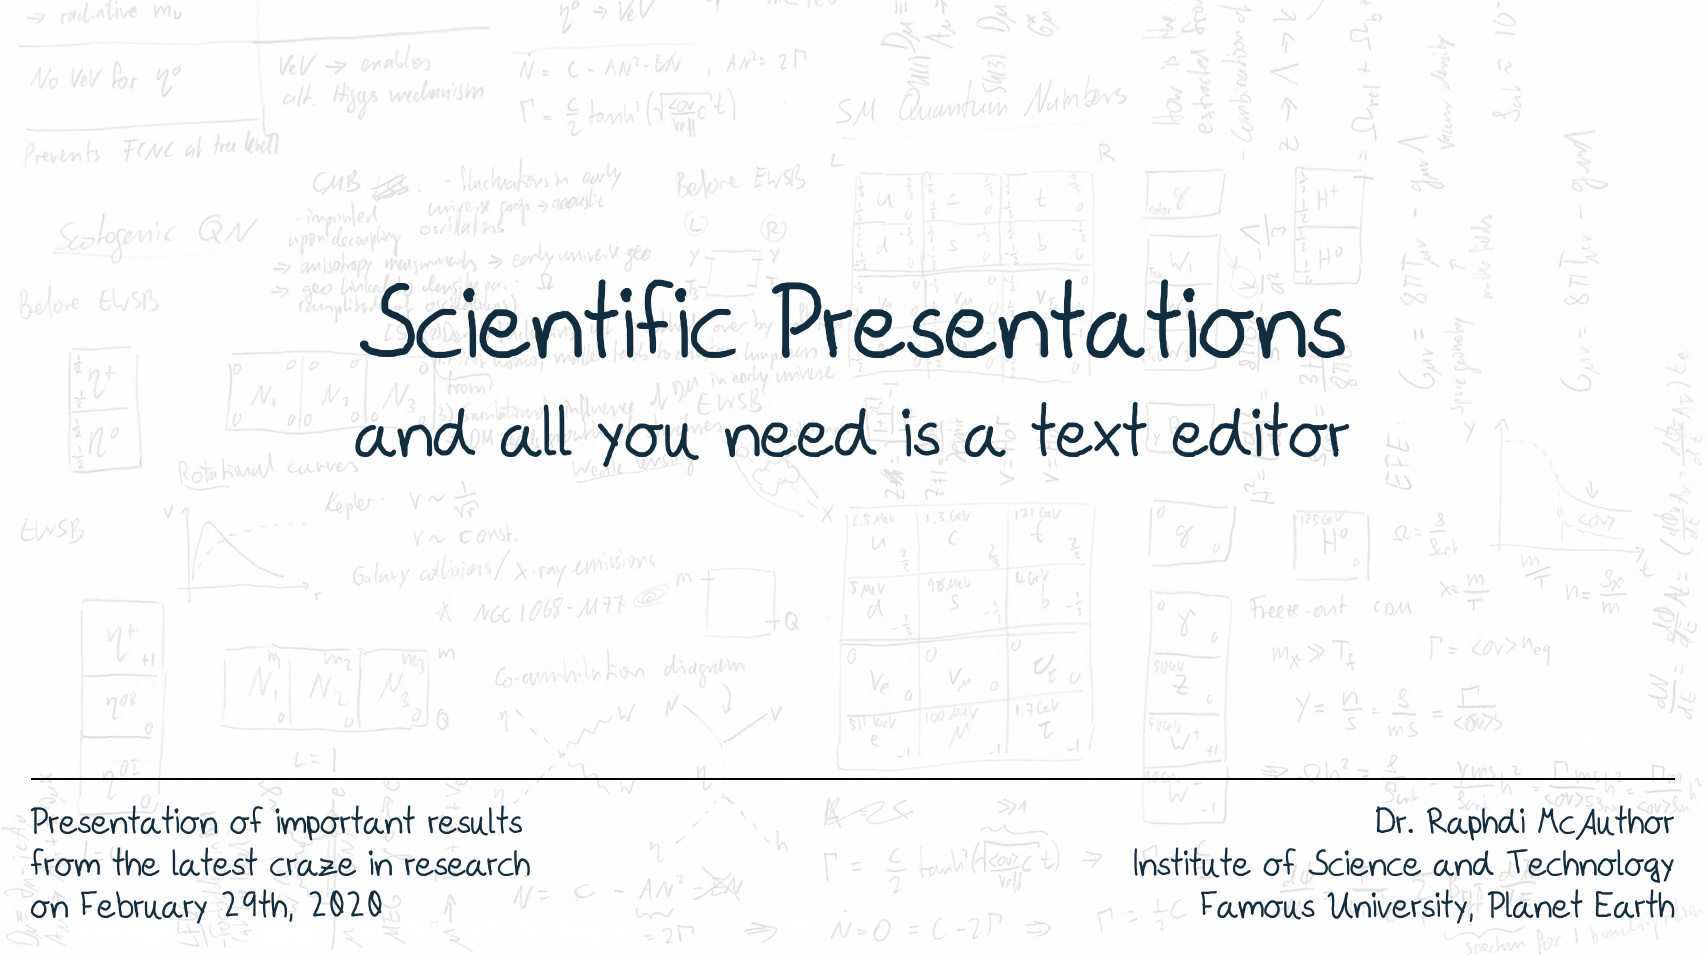
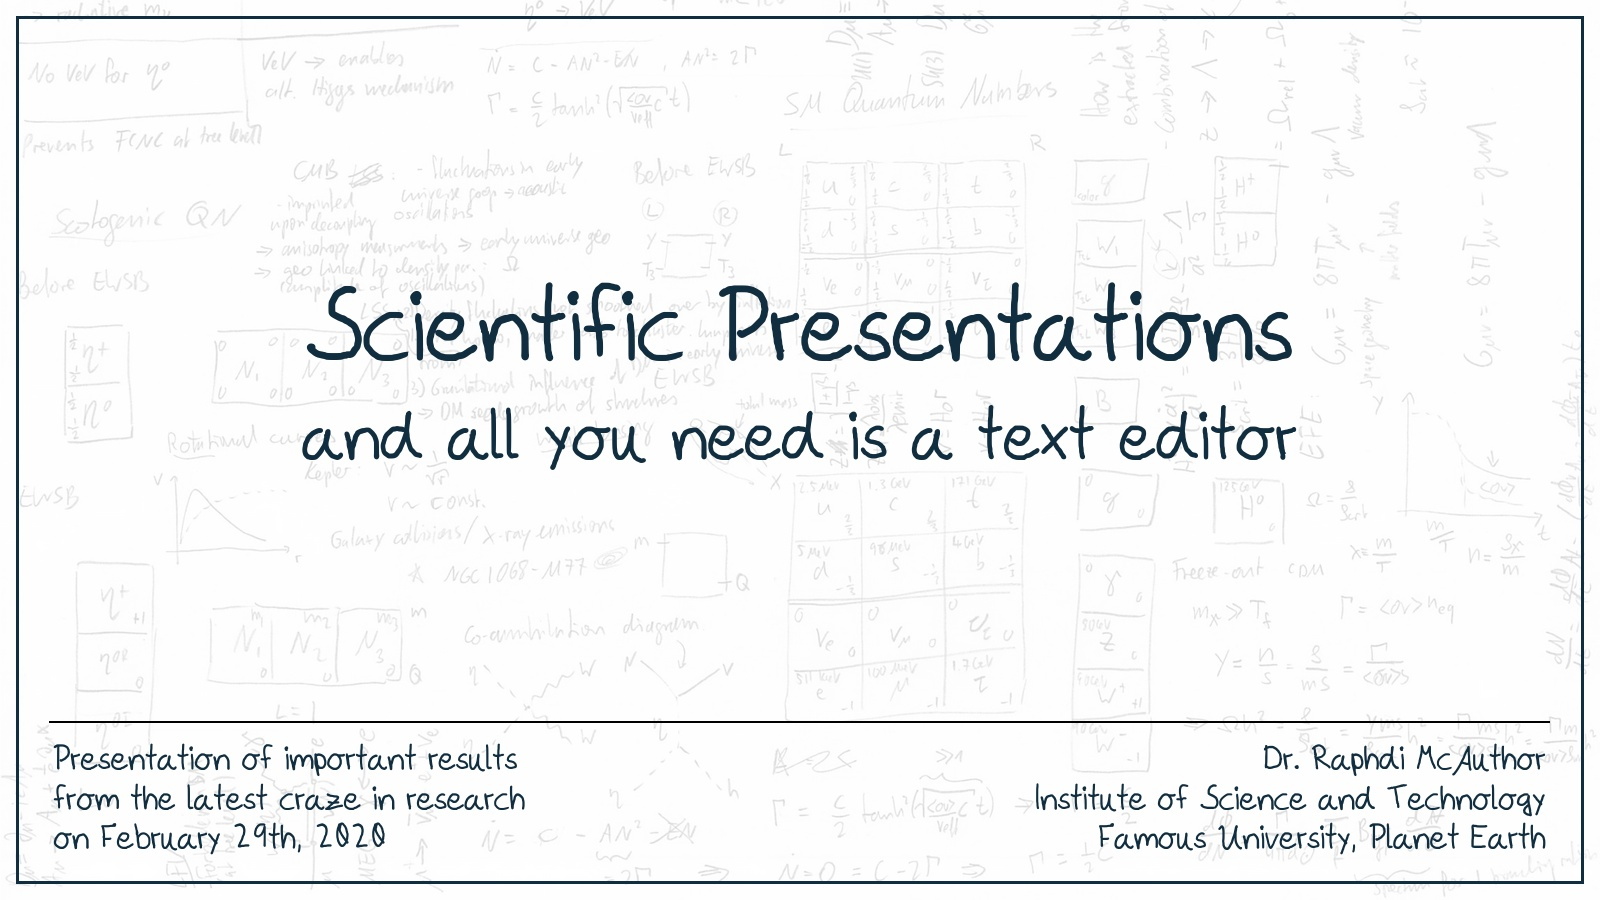
Implemented automatic setting of browser scroll offset, and changed resolution to 1600x900.

diff --git a/tutorial/parse/output.html b/tutorial/parse/output.html
@@ -15,22 +15,22 @@
 
     <div class="frame">
 
-        <div class="cell T02 BOX1" style=" visibility: visible;">
-            <div class="cell BOXTITLE" style=" width: 72.9375px;"></div>
-            <p class="headline" style="margin-top: 230px;">
+        <div class="cell T02 BOX1" style=" border:  3px solid rgba(var(--text), 1); visibility: visible;">
+            <div class="cell BOXTITLE" style=" width: 70.78125px;"></div>
+                <p class="headline" style="margin-top: 230px;">
         Scientific Presentations
     </p>
     <p class="subheadline">
         and all you need is a text editor
     </p>
 
-    <hr style="width: 100%; height: 1.5px; margin-top: 300px;">
-    <p style="width: 50%; float: left; color: rgba(var(--text),1); font-weight: bold;">
+    <hr style="width: 98%; height: 1.5px; margin-top: 240px;">
+    <p style="width: 50%; float: left; padding: 0 0 20px 20px; color: rgba(var(--text),1); font-weight: bold;">
         Presentation of important results<br>
         from the latest craze in research<br>
         on February 29th, 2020<br>
     </p>
-    <p style="width: 50%; float: right; text-align: right; color: rgba(var(--text),1); font-weight: bold;">
+    <p style="width: 50%; float: right; padding: 0 20px 20px 0; text-align: right; color: rgba(var(--text),1); font-weight: bold;">
         Dr. Raphdi McAuthor<br>
         Institute of Science and Technology<br>
         Famous University, Planet Earth
@@ -66,7 +66,7 @@
             <span class="page">2</span>
         </div>
 
-        <div class="cell T00 BOX1" style=" background-color:  rgba(var(--color), 1); visibility: visible; width: calc(var(--totalwidth) - 805.6875px - var(--footerwidth) - 8 * var(--boxmargin));">
+        <div class="cell T00 BOX1" style=" background-color:  rgba(var(--color), 1); visibility: visible; width: calc(var(--totalwidth) - 766.34375px - var(--footerwidth) - 8 * var(--boxmargin));">
                             
     <img src="../pictures/testimage_01.jpg" style="width: 100%; border: 1px solid black;">
     <br>
@@ -76,10 +76,10 @@
     </p>
         </div>
 
-        <div class="cell BOXTITLE" style=" visibility: visible; width: 805.6875px;">
+        <div class="cell BOXTITLE" style=" visibility: visible; width: 766.34375px;">
             The title of the first slide
         </div>
-        <div class="cell T00 BOX2" style="  background-size:  cover; background-image:  url(../pictures/torngrid_01.png);   background-position:  bottom; visibility: visible; width: 805.6875px;">
+        <div class="cell T00 BOX2" style="  background-size:  cover; background-image:  url(../pictures/torngrid_01.png);   background-position:  bottom; visibility: visible; width: 766.34375px;">
                             <ul class="ultrawide large" style="margin: 30px 25px;">
         <li>The contents go into boxes like this one.</li>
         <li>The size of the boxes are adjusted to the length of the title.</li>
@@ -119,9 +119,9 @@
         </div>
 
         <div class="cell T01 BOX1" style=" color:  white; visibility: visible;">
-            <div class="cell BOXTITLE" style=" visibility: visible; width: 710.140625px;">Different style options</div>
+            <div class="cell BOXTITLE" style=" visibility: visible; width: 675.625px;">Different style options</div>
                 <ul class="large">
-        <li>In general, boxes can contain anything from the HTML and CSS world.</li>
+        <li>In general, boxes can contain anything<br>from the HTML and CSS world.</li>
         <li>Like images, lists, plain text, even moving headlines if that's your thing.</li>
         <li>If you need more freedom, choose the template with the single, giant box and knock yourself out!</li>
         <li>The different templates are shown at the end of the presentation.</li>
@@ -163,7 +163,7 @@
         </div>
 
         <div class="cell T01 BOX1" style=" visibility: visible;">
-            <div class="cell BOXTITLE" style=" visibility: visible; width: 700.78125px;">Equations with LaTeX</div>
+            <div class="cell BOXTITLE" style=" visibility: visible; width: 666.71875px;">Equations with LaTeX</div>
             <ul class="wide large" style="margin: 30px 25px;">
         <li>
             If you're familiar with LaTeX typesetting, you can use the
@@ -176,7 +176,7 @@
             
             ... so they might behave
             
-                <img src="/home/nechnif/projects/neftox/tutorial/parse/04-BOX1-00.png" style="width:255.0px; margin-bottom: -8.94px;"/>
+                <img src="/home/nechnif/projects/neftox/tutorial/parse/04-BOX1-00.png" style="width:221.25px; margin-bottom: -7.8px;"/>
 
             
             when embedded into normal text.
@@ -226,7 +226,7 @@
             <span class="page">5</span>
         </div>
 
-        <div class="cell T00 BOX1" style="  background-size:  cover; background-image:  url(../pictures/torngrid_01.png);   background-position:  bottom; visibility: visible; width: calc(var(--totalwidth) - 731.296875px - var(--footerwidth) - 8 * var(--boxmargin));">
+        <div class="cell T00 BOX1" style="  background-size:  cover; background-image:  url(../pictures/torngrid_01.png);   background-position:  bottom; visibility: visible; width: calc(var(--totalwidth) - 695.703125px - var(--footerwidth) - 8 * var(--boxmargin));">
                             <ul class="ultrawide large" style="margin: 30px 25px;">
         <li>
             Slides can be duplicated - called "subframes".
@@ -238,10 +238,10 @@
     </ul>
         </div>
 
-        <div class="cell BOXTITLE" style=" visibility: visible; width: 731.296875px;">
+        <div class="cell BOXTITLE" style=" visibility: visible; width: 695.703125px;">
             Frames and subframes
         </div>
-        <div class="cell T00 BOX2" style=" width: 731.296875px;">
+        <div class="cell T00 BOX2" style=" width: 695.703125px;">
                         
         </div>
 
@@ -275,7 +275,7 @@
             <span class="page">5</span>
         </div>
 
-        <div class="cell T00 BOX1" style="  background-size:  cover; background-image:  url(../pictures/torngrid_01.png);   background-position:  bottom; visibility: visible; width: calc(var(--totalwidth) - 731.296875px - var(--footerwidth) - 8 * var(--boxmargin)); width: calc(var(--totalwidth) - 731.296875px - var(--footerwidth) - 8 * var(--boxmargin));">
+        <div class="cell T00 BOX1" style="  background-size:  cover; background-image:  url(../pictures/torngrid_01.png);   background-position:  bottom; visibility: visible; width: calc(var(--totalwidth) - 695.703125px - var(--footerwidth) - 8 * var(--boxmargin)); width: calc(var(--totalwidth) - 695.703125px - var(--footerwidth) - 8 * var(--boxmargin));">
                             <ul class="ultrawide large" style="margin: 30px 25px;">
         <li>
             Slides can be duplicated - called "subframes".
@@ -296,10 +296,10 @@
 </ul>
         </div>
 
-        <div class="cell BOXTITLE" style=" visibility: visible; width: 731.296875px; width: 731.296875px;">
+        <div class="cell BOXTITLE" style=" visibility: visible; width: 695.703125px; width: 695.703125px;">
             Frames and subframes
         </div>
-        <div class="cell T00 BOX2" style=" visibility: visible; width: 731.296875px;">
+        <div class="cell T00 BOX2" style=" visibility: visible; width: 695.703125px;">
                         <img src="../pictures/testimage_02.jpg" style="width: 100%; border: 1px solid black; filter: saturate(50%); margin-top: 200px;">
     <br>
     <p style="width: 100%; text-align: center;">
@@ -337,14 +337,14 @@
             <span class="page">6</span>
         </div>
 
-        <div class="cell T00 BOX1" style=" border:  3px solid black; visibility: visible; width: calc(var(--totalwidth) - 517.515625px - var(--footerwidth) - 8 * var(--boxmargin));">
+        <div class="cell T00 BOX1" style=" border:  3px solid black; visibility: visible; width: calc(var(--totalwidth) - 492.8125px - var(--footerwidth) - 8 * var(--boxmargin));">
                             BOX1
         </div>
 
-        <div class="cell BOXTITLE" style=" border:  3px solid black; visibility: visible; width: 517.515625px;">
+        <div class="cell BOXTITLE" style=" border:  3px solid black; visibility: visible; width: 492.8125px;">
                 Template 00
         </div>
-        <div class="cell T00 BOX2" style=" border:  3px solid black; visibility: visible; width: 517.515625px;">
+        <div class="cell T00 BOX2" style=" border:  3px solid black; visibility: visible; width: 492.8125px;">
                             BOX2
         </div>
 
@@ -378,7 +378,7 @@
         </div>
 
         <div class="cell T01 BOX1" style=" border:  3px solid black; visibility: visible;">
-            <div class="cell BOXTITLE" style=" border:  3px solid black; visibility: visible; width: 506.25px;">    Template 01</div>
+            <div class="cell BOXTITLE" style=" border:  3px solid black; visibility: visible; width: 482.109375px;">    Template 01</div>
                 BOX1
         </div>
 
@@ -406,7 +406,7 @@
     <div class="frame">
 
         <div class="cell T02 BOX1" style=" border:  3px solid black; visibility: visible;">
-            <div class="cell BOXTITLE" style=" border:  3px solid black; visibility: visible; width: 523.359375px;">    Template 02</div>
+            <div class="cell BOXTITLE" style=" border:  3px solid black; visibility: visible; width: 498.359375px;">    Template 02</div>
                 BOX1
         </div>
 
@@ -440,7 +440,7 @@
             <span class="page">9</span>
         </div>
 
-        <div class="cell T00 BOX1" style=" background-color:  white; visibility: visible; width: calc(var(--totalwidth) - 563.328125px - var(--footerwidth) - 8 * var(--boxmargin));">
+        <div class="cell T00 BOX1" style=" background-color:  white; visibility: visible; width: calc(var(--totalwidth) - 536.328125px - var(--footerwidth) - 8 * var(--boxmargin));">
                             <table style="talbe-layout: fixed;">
         <colgroup>
             <col style="width:20%">
@@ -504,10 +504,10 @@
     </table>
         </div>
 
-        <div class="cell BOXTITLE" style=" background-color:  white;  color:  black; visibility: visible; width: 563.328125px;">
+        <div class="cell BOXTITLE" style=" background-color:  white;  color:  black; visibility: visible; width: 536.328125px;">
                 Color palettes
         </div>
-        <div class="cell T00 BOX2" style="  background-size:  cover; background-image:  url(../pictures/torngrid_01.png);   background-position:  bottom; visibility: visible; width: 563.328125px;">
+        <div class="cell T00 BOX2" style="  background-size:  cover; background-image:  url(../pictures/torngrid_01.png);   background-position:  bottom; visibility: visible; width: 536.328125px;">
                             <ul class="large ultrawide" style="margin-top: 30px;">
         <li>Set a color palette with the PALETTE key in the presentation meta info.</li>
         <li>Palettes are stored in the palettes.css file.</li>

diff --git a/tutorial/input.html b/tutorial/input.html
@@ -19,7 +19,7 @@ STYLE    = whimsical
 PALETTE  = plain blue
 OFFSET   = 1
 FONT     = nefcal
-FONTSIZE = 35px
+FONTSIZE = 33px
 
 
 <!-- FRAME ------------------------------------------------------------>
@@ -51,6 +51,7 @@ BACKGROUND_COLOR = rgba(255, 255, 255, 0.8)
     The content of the boxes can be anything from the HTML and CSS world.
  -->
 BOX1--
+    style="border: 3px solid rgba(var(--text), 1);"
     <p class="headline" style="margin-top: 230px;">
         Scientific Presentations
     </p>
@@ -58,13 +59,13 @@ BOX1--
         and all you need is a text editor
     </p>
 
-    <hr style="width: 100%; height: 1.5px; margin-top: 300px;">
-    <p style="width: 50%; float: left; color: rgba(var(--text),1); font-weight: bold;">
+    <hr style="width: 98%; height: 1.5px; margin-top: 240px;">
+    <p style="width: 50%; float: left; padding: 0 0 20px 20px; color: rgba(var(--text),1); font-weight: bold;">
         Presentation of important results<br>
         from the latest craze in research<br>
         on February 29th, 2020<br>
     </p>
-    <p style="width: 50%; float: right; text-align: right; color: rgba(var(--text),1); font-weight: bold;">
+    <p style="width: 50%; float: right; padding: 0 20px 20px 0; text-align: right; color: rgba(var(--text),1); font-weight: bold;">
         Dr. Raphdi McAuthor<br>
         Institute of Science and Technology<br>
         Famous University, Planet Earth
@@ -114,7 +115,7 @@ BOXTITLE--
 BOX1--
     style="color: white;"
     <ul class="large">
-        <li>In general, boxes can contain anything from the HTML and CSS world.</li>
+        <li>In general, boxes can contain anything<br>from the HTML and CSS world.</li>
         <li>Like images, lists, plain text, even moving headlines if that's your thing.</li>
         <li>If you need more freedom, choose the template with the single, giant box and knock yourself out!</li>
         <li>The different templates are shown at the end of the presentation.</li>
@@ -154,7 +155,7 @@ BOX1--
             -->
             ... so they might behave
             TEX--
-                {\fontsize{30}{32}\selectfont
+                {\fontsize{26}{28}\selectfont
                 \textcolor{red}{a wee bit oddly}}
             --TEX
             when embedded into normal text.

diff --git a/styles/whimsical.css b/styles/whimsical.css
@@ -9,8 +9,8 @@ html { box-sizing: border-box; }
 
 /* ### Widths and heights */
 :root {
-     --totalwidth: 1706px;
-    --totalheight: 960px;
+     --totalwidth: 1600px;
+    --totalheight: 900px;
     --titleheight: 120px;
     --footerwidth: 73px;
       --boxmargin: 8px;

diff --git a/styles/customs.css b/styles/customs.css
@@ -7,7 +7,7 @@
 }
 :root {
     --fontfamily: nefcal;
-    --basesize: 35.0px;
+    --basesize: 33.0px;
 }
 @font-face {
     font-family: nefcal;

diff --git a/neftox.py b/neftox.py
@@ -266,30 +266,48 @@ class Presentation(object):
             pf.write(self.HTML)
 
     def CreatePreview(self):
-        ## Creating "screenshots" of the HTML preview pages using Selenium.
+        ## Creating "screenshots" of the HTML preview pages using
+        ## Selenium. Hoping to support different browers in the future.
 
-        windowsize   = (1706, 1040)
-        scrolloffset = -80
+        ## Determine window size:
+        windowsize = {
+            'width'  : int(self.styles['totalwidth']),
+            'height' : int(self.styles['totalheight']),
+        }
 
-
-
+        ## Initiate web driver:
         options = Options()
         options.headless = True
         options.add_argument("--no-sandbox");
         options.add_argument("--disable-extensions");
         options.add_argument("--dns-prefetch-disable");
+        driver = webdriver.Firefox(
+            options=options,
+            service_log_path=os.path.devnull
+        )
 
+        driver.set_window_size(windowsize['width'], windowsize['height'])
         url = 'file:///{}parse/output.html'.format(self.inputdir)
-        driver = webdriver.Firefox(options=options, service_log_path=os.path.devnull)
-        driver.set_window_size(windowsize[0], windowsize[1])
         driver.get(url)
+
+        # Create test image. This is necessary to determine the size of
+        # the nav bar/ overhead of the browser, which has to be taken
+        # into account in the screenshot size. I could not find a better
+        # way to solve this yet.
+        testfile = '{}parse/test.png'.format(self.inputdir)
+        driver.save_screenshot(testfile)
+        scrolloffset = Image.open(testfile).height - windowsize['height']
+        windowsize['height'] = windowsize['height']-scrolloffset
+        driver.set_window_size(windowsize['width'], windowsize['height'])
+        os.remove(testfile)
+
         imgfiles = []
-        scroll = windowsize[1]+scrolloffset
+        scroll = windowsize['height']+scrolloffset
         for f in range(len(self.frames)):
             png = '{}parse/output_{:02d}.png'.format(self.inputdir, f)
             driver.save_screenshot(png)
             driver.execute_script('window.scrollTo(0, '+str(scroll)+')')
-            scroll += windowsize[1]+scrolloffset
+            scroll += windowsize['height']+scrolloffset
             ## The following removes the alpha channels from the images,
             ## which is necessary for the pdf convert:
             command = 'convert {} -background white -alpha remove -alpha off {}'.format(png, png)
@@ -303,7 +321,6 @@ class Presentation(object):
             os.remove(png)
 
         driver.quit()
-
         self.imgfiles = list(np.sort(imgfiles))
 
     def CreatePDF(self):
@@ -316,6 +333,7 @@ class Presentation(object):
 
         for imgfile in self.imgfiles:
             os.remove(imgfile)
+
 
 class Template(object):
 

diff --git a/README.md b/README.md
@@ -10,6 +10,8 @@ The neftox tools is text-editor based (it does not come with a graphical interfa
 
 This tool is designed to combine the best from two worlds: The freedom and flexibility of web designing, with the possibilities of scientific document typesetting tools.
 
+This is how it works: Basically, neftox creates a "website" (without being on the web of course) based on the user's input, see `tutorial/parse/output.html`. Then it takes screenshots of this website in the background, splitting it into individual images, see `tutorial/parse/output_<>.jpg`, which are then converted to a PDF, see `tutorial/tutorial.pdf`.
+
 
 ### Prerequisites
 
@@ -34,7 +36,16 @@ If you want to use LaTeX expressions in your presentation, you also need
 sympy
 ```
 
-as well as a working TeX Live installation. 
+as well as a working TeX Live installation.
+
+The process of taking screenshots with selenium currently only works with one browser:
+
+```
+Firefox
+```
+
+The goal is to have neftox select the user's default browser automatically; this is currently under development.
+
 
 ### Usage
 
